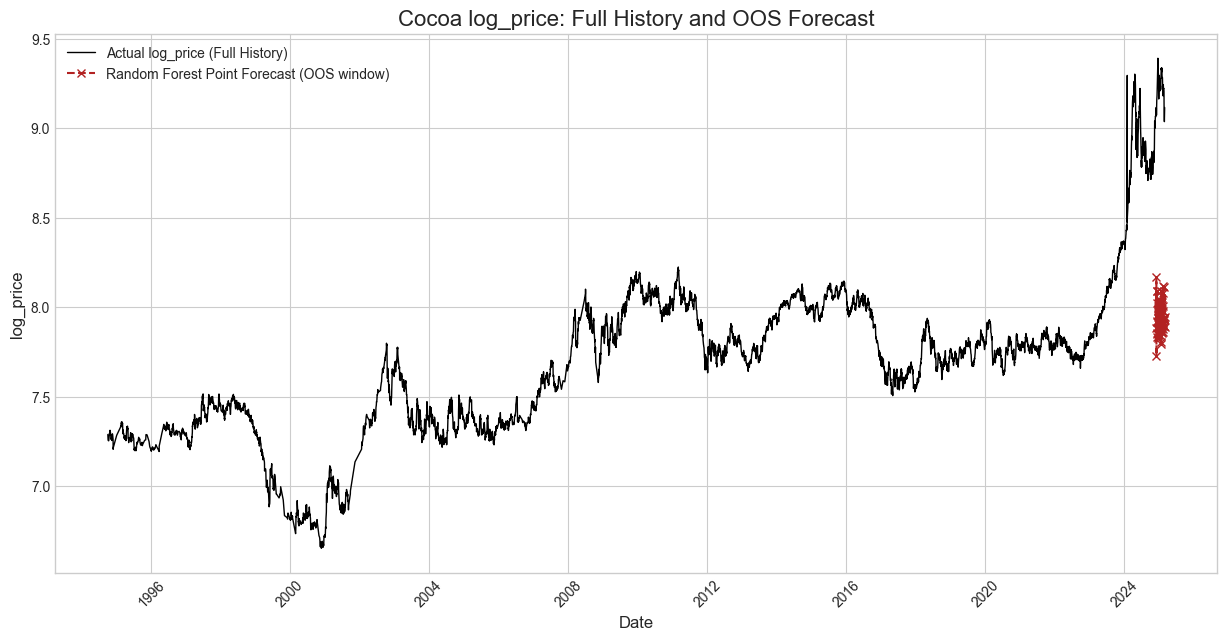
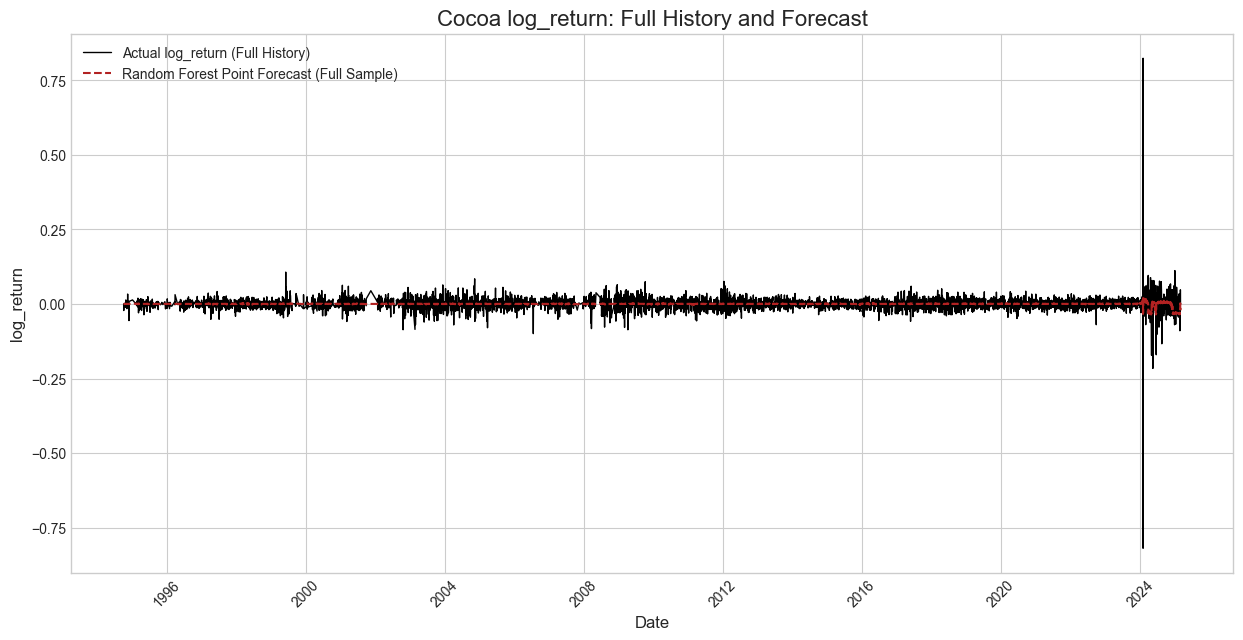
plotting log price while estimating log return

diff --git a/src/cocoa/models/plot.py b/src/cocoa/models/plot.py
@@ -1,5 +1,6 @@
 import pandas as pd
 from matplotlib import pyplot as plt
+import numpy as np
 import os
 
 
@@ -12,7 +13,7 @@ def plot_forecast(
     output_path: str = "data/processed/point_forecast.png",
 ):
     """
-    Plot full history of the target series and overlay model forecasts.
+    Plot full history of the price series and overlay model-implied price forecasts.
 
     Parameters
     ----------
@@ -30,24 +31,34 @@ def plot_forecast(
     output_path : str
         Where to save the PNG.
     """
-    # Full series
-    all_dates = df["date"]
-    all_y = df[target_col]
-
-    if len(all_dates) != len(y_pred):
+    if len(df) != len(y_pred):
         raise ValueError(
-            f"Length mismatch: {len(all_dates)} dates in df vs {len(y_pred)} predictions."
+            f"Length mismatch: {len(df)} rows in df vs {len(y_pred)} predictions."
         )
+
+    plot_df = df[["date", "log_price"]].copy()
+    plot_df["log_return_hat"] = y_pred
+
+    # Reconstruct the predicted log price level
+    # log_price_hat(t) = log_price(t-1) + log_return_hat(t)
+    # The feature 'log_price_lagt' is log_price(t-1)
+    if "log_price_lagt" not in df.columns:
+        raise KeyError("The DataFrame must contain 'log_price_lagt' to reconstruct price forecasts.")
+    plot_df["log_price_hat"] = df["log_price_lagt"] + plot_df["log_return_hat"]
+
+    # Convert log prices to actual prices
+    plot_df["price"] = np.exp(plot_df["log_price"])
+    plot_df["price_hat"] = np.exp(plot_df["log_price_hat"])
 
     plt.style.use("seaborn-v0_8-whitegrid")
     fig, ax = plt.subplots(figsize=(15, 7))
 
-    ax.plot(all_dates, all_y, label=f"Actual {target_col} (Full History)", linestyle="-", color="black", linewidth=1.0)
-    ax.plot(all_dates, y_pred, label=f"{model_label} Point Forecast (Full Sample)", linestyle="--", color="firebrick")
+    ax.plot(plot_df["date"], plot_df["price"], label="Actual Price", linestyle="-", color="black", linewidth=1.0)
+    ax.plot(plot_df["date"], plot_df["price_hat"], label=f"{model_label} Forecasted Price", linestyle="--", color="firebrick")
 
-    ax.set_title(f"Cocoa {target_col}: Full History and Forecast", fontsize=16)
+    ax.set_title(f"Cocoa Price: Actual vs. {model_label} Forecast", fontsize=16)
     ax.set_xlabel("Date", fontsize=12)
-    ax.set_ylabel(target_col, fontsize=12)
+    ax.set_ylabel("Price", fontsize=12)
     ax.legend(fontsize=10)
     ax.tick_params(axis="x", rotation=45)
 

diff --git a/src/cocoa/models/fitting.py b/src/cocoa/models/fitting.py
@@ -1,7 +1,15 @@
-from cocoa.models import CocoaDataset, RFModel, MFVValidator, plot_forecast
 from itertools import product
 import numpy as np
 import pandas as pd
+
+from cocoa.models import CocoaDataset, RFModel, MFVValidator, plot_forecast
+from .assets import (
+    PROCESSED_DATA_PATH,
+    OOS_START_DATE,
+    RF_FEATURE_COLS,
+    RF_TARGET_COL,
+    RF_PARAM_GRID,
+)
 
 def expand_grid(grid):
     keys = list(grid.keys())
@@ -11,23 +19,14 @@ def expand_grid(grid):
 
 if __name__ == "__main__":
     # 1. Construct dataset
-    feature_cols = [
-        "PRCP_anom_mean",
-        "TAVG_anom_mean",
-        "PRCP_anom_std",
-        "TAVG_anom_std",
-        "N_stations",
-    ]
-    target_col = "log_price"
-
     dataset = CocoaDataset(
-        csv_path="w:/Research/NP/Cocoa/data/processed/cocoa_ghana_full.csv",
-        feature_cols=feature_cols,
-        target_col=target_col,
+        csv_path=PROCESSED_DATA_PATH,
+        feature_cols=RF_FEATURE_COLS,
+        target_col=RF_TARGET_COL,
     )
 
     # 2. Train / OOS split
-    split = dataset.split_oos_by_date("2024-11-29")
+    split = dataset.split_oos_by_date(OOS_START_DATE)
 
     X_train_cv = split.X_train
     y_train_cv = split.y_train
@@ -39,14 +38,7 @@ if __name__ == "__main__":
     print(T_train, T_test)
 
     # 3. MFV RF tuning
-    param_grid = {
-        "n_estimators": [200, 500],
-        "max_depth": [3, 5, None],
-        "min_samples_leaf": [1, 5, 20],
-        "max_features": ["sqrt", "log2"],
-    }
-
-    param_list = list(expand_grid(param_grid))
+    param_list = list(expand_grid(RF_PARAM_GRID))
 
     mfv = MFVValidator(Q=5, block_size=200)
     best_params, best_mfv, _ = mfv.grid_search(
@@ -66,7 +58,7 @@ if __name__ == "__main__":
     # 5. Plot OOS forecast
     plot_forecast(
         df=dataset.df,
-        target_col=target_col,
+        target_col=RF_TARGET_COL,
         y_pred=y_full_pred,
         model_label="Random Forest",
         output_path="data/processed/rf_oos_forecast.png",

diff --git a/src/cocoa/models/fitting_xgb.py b/src/cocoa/models/fitting_xgb.py
@@ -1,6 +1,14 @@
-from cocoa.models import CocoaDataset, XGBModel, MFVValidator, plot_forecast
 from itertools import product
 import numpy as np
+
+from cocoa.models import CocoaDataset, XGBModel, MFVValidator, plot_forecast
+from .assets import (
+    PROCESSED_DATA_PATH,
+    OOS_START_DATE,
+    XGB_FEATURE_COLS,
+    XGB_TARGET_COL,
+    XGB_PARAM_GRID,
+)
 
 
 def expand_grid(grid):
@@ -12,23 +20,14 @@ def expand_grid(grid):
 
 if __name__ == "__main__":
     # 1. Construct dataset
-    feature_cols = [
-        "PRCP_anom_mean",
-        "TAVG_anom_mean",
-        "PRCP_anom_std",
-        "TAVG_anom_std",
-        "N_stations",
-    ]
-    target_col = "log_price"
-
     dataset = CocoaDataset(
-        csv_path="w:/Research/NP/Cocoa/data/processed/cocoa_ghana_full.csv",
-        feature_cols=feature_cols,
-        target_col=target_col,
+        csv_path=PROCESSED_DATA_PATH,
+        feature_cols=XGB_FEATURE_COLS,
+        target_col=XGB_TARGET_COL,
     )
 
     # 2. Train / OOS split
-    split = dataset.split_oos_by_date("2024-11-29")
+    split = dataset.split_oos_by_date(OOS_START_DATE)
 
     X_train_cv = split.X_train
     y_train_cv = split.y_train
@@ -40,14 +39,7 @@ if __name__ == "__main__":
     print(f"Train/CV set size: {T_train}, OOS test set size: {T_test}")
 
     # 3. MFV XGBoost tuning
-    param_grid = {
-        "n_estimators": [200, 500],
-        "max_depth": [3, 5],
-        "learning_rate": [0.05, 0.1],
-        "subsample": [0.7, 1.0],
-    }
-
-    param_list = list(expand_grid(param_grid))
+    param_list = list(expand_grid(XGB_PARAM_GRID))
 
     mfv = MFVValidator(Q=5, block_size=200)
     best_params, best_mfv, _ = mfv.grid_search(
@@ -67,7 +59,7 @@ if __name__ == "__main__":
     # 5. Plot OOS forecast
     plot_forecast(
         df=dataset.df,
-        target_col=target_col,
+        target_col=XGB_TARGET_COL,
         y_pred=y_full_pred,
         model_label="XGBoost",
         output_path="data/processed/xgb_oos_forecast.png",

diff --git a/src/cocoa/models/assets.py b/src/cocoa/models/assets.py
@@ -1,0 +1,53 @@
+"""
+Project-level constants for the cocoa forecasting project.
+
+This includes feature sets, target variables, and hyperparameter grids
+for different models.
+"""
+
+# ============================================================
+# General Experiment Setup
+# ============================================================
+
+OOS_START_DATE = "2024-11-29"
+PROCESSED_DATA_PATH = "w:/Research/NP/Cocoa/data/processed/cocoa_ghana_full.csv"
+
+# ============================================================
+# Random Forest (RF) Model Configuration
+# ============================================================
+
+RF_FEATURE_COLS = [
+    "PRCP_anom_mean",
+    "TAVG_anom_mean",
+    "PRCP_anom_std",
+    "N_stations",
+    "log_price_lagt",
+]
+RF_TARGET_COL = "log_return"
+
+RF_PARAM_GRID = {
+    "n_estimators": [200, 500],
+    "max_depth": [3, 5, None],
+    "min_samples_leaf": [1, 5, 20],
+    "max_features": ["sqrt", "log2"],
+}
+
+# ============================================================
+# XGBoost (XGB) Model Configuration
+# ============================================================
+
+XGB_FEATURE_COLS = [
+    "PRCP_anom_mean",
+    "TAVG_anom_mean",
+    "PRCP_anom_std",
+    "N_stations",
+    "log_price_lagt",
+]
+XGB_TARGET_COL = "log_return"
+
+XGB_PARAM_GRID = {
+    "n_estimators": [200, 500],
+    "max_depth": [3, 5],
+    "learning_rate": [0.05, 0.1],
+    "subsample": [0.7, 1.0],
+}

diff --git a/src/cocoa/models/__init__.py b/src/cocoa/models/__init__.py
@@ -5,3 +5,4 @@ from .ml_XGB import XGBModel
 from .mfv_CV import MFVValidator
 from .evaluation import evaluate_forecast
 from .plot import plot_forecast
+from . import assets
